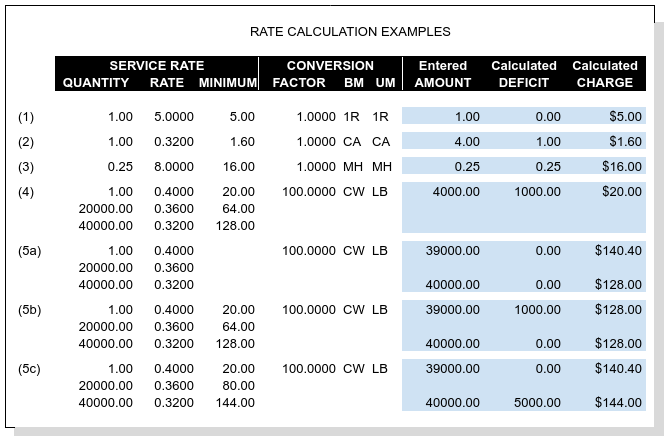
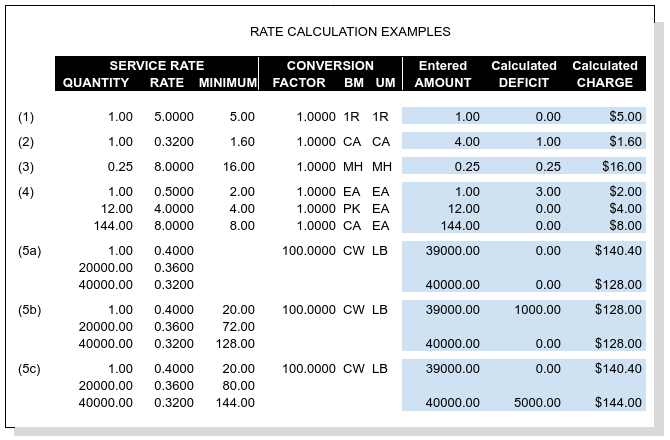
Deployed documentation

diff --git a/billing/searchindex.js b/billing/searchindex.js
@@ -1,1 +1,1 @@
-Search.setIndex({envversion:46,terms:{all:[4,5],concept:5,partial:4,consider:4,illustr:4,month:[4,3,6],four:[4,5],signific:4,per:4,edu:5,follow:[4,6,5],merchandis:5,footnot:5,decid:4,depend:4,aug:6,quarterli:6,decim:4,program:4,present:[4,5],under:4,everi:[4,6,3,5],"void":6,mechan:4,level:4,button:3,reconcil:6,list:[4,6],item:6,adjust:4,particularli:[4,5],compens:4,consequ:6,rate:5,further:4,index:0,what:4,appear:[4,5],abf:4,sun:6,section:5,calcul:5,uniform:5,current:[4,6],"new":6,method:[4,5],elimin:4,full:4,defici:4,iarw:5,gener:[4,6],here:[4,5],satisfi:4,address:5,becom:4,modifi:6,valu:[4,3,6],search:0,convers:4,broken:4,larger:4,amount:4,pick:4,action:6,chang:4,control:[6,5],apr:6,appli:[4,6,3,5],modul:[0,4],establish:5,unit:4,fee:4,from:[4,6],describ:[4,6,5],would:[4,6],two:[4,6],todai:[6,5],next:[4,3,6],recommend:4,scope:5,codifi:4,type:[4,6],more:4,desir:[4,3],ptional:4,relat:6,enhanc:5,particular:[4,5],compani:[4,5],ware:[4,6,5],tariff:[4,3],must:[4,5],account:5,hour:4,can:4,meet:4,dec:6,overrid:4,process:6,tab:5,occur:6,alwai:4,multipl:4,ledger:5,wareh:[4,5],how:[4,5],fourth:6,instead:4,negoti:4,product:4,mar:6,irration:4,usabl:4,befor:4,tier:5,end:[4,6],law:5,associ:[4,6,5],demonstr:4,accessori:5,subtl:4,practic:5,third:6,correspond:[4,5],caus:4,perform:6,allow:6,enter:[4,6,3,5],order:4,over:4,move:6,becaus:4,report:4,through:[4,5],vari:4,paramet:4,group:5,render:4,labor:4,window:4,pend:6,therefor:4,might:[4,6],uom:4,them:4,good:5,"return":4,greater:4,thei:4,handl:[4,5],financi:5,dai:[4,3,6],half:4,andatori:4,nov:6,term:[4,5],name:4,payer:4,revers:6,compris:5,each:[4,5],quarter:4,mai:[4,6,3,5],year:3,event:[4,6],special:4,shown:[4,6],space:6,goe:5,epeat:4,crucial:4,categori:5,formula:4,forth:4,qualifi:4,advanc:4,standard:[4,5],base:[4,3,5],lump:4,put:4,basi:5,could:4,retail:4,assign:4,frequent:4,first:[4,6],oper:5,softwar:5,rang:[6,5],directli:4,onc:[4,6],number:[6,5],thereof:4,restrict:4,date:[4,3,6],blank:4,expir:[3,6],open:6,differ:4,nomin:4,data:5,system:[4,3],necessarili:6,similarli:4,cornel:5,"final":4,schema:5,option:[4,6],specifi:[4,3],logist:[4,5],than:4,provid:[4,5],second:6,structur:5,were:4,posit:4,sai:4,ani:[4,6],packag:4,manner:4,have:[4,6],tabl:4,need:4,sat:6,equival:4,inform:5,also:[4,6],exampl:5,which:[4,6,5],singl:[4,5],unless:4,reloc:4,track:6,price:4,previou:[4,6],promulg:5,charg:5,later:6,request:6,quantiti:4,bracket:4,sunset:6,determin:4,prorat:4,show:4,text:5,radio:3,fifth:6,onli:4,transact:[4,5],activ:5,state:[4,5],should:[4,3],jan:6,busi:4,factor:4,discontinu:3,oct:6,express:4,contractu:4,cannot:4,increas:4,requir:[4,6],enabl:4,organ:4,whether:[4,5],contain:[4,6],where:4,conform:5,set:[4,6,5],sep:6,mandatori:4,result:4,close:4,calendar:4,statu:4,figur:4,progress:[8,7,3,2,1,9],across:4,accord:[4,6],kei:4,extens:4,come:6,tue:6,both:4,protect:4,last:[4,3,6],howev:4,equal:4,contract:5,roman:5,improv:5,point:4,schedul:[4,3,6],period:[4,6],yearli:6,ucc:5,recur:6,fri:6,three:[4,6,5],perpetu:6,revenu:4,trigger:4,alcul:4,monthli:6,frz:4,iwla:5,suppress:4,convert:4,zero:4,those:4,"case":4,commerci:5,defin:[4,6,5],"while":[4,6],abov:6,omcr:4,warehous:[4,5],inventori:6,receiv:4,belong:4,same:4,higher:4,week:3,http:5,effect:[4,6],hand:4,fairli:4,user:4,extern:5,typic:4,appropri:3,thu:6,well:4,know:4,without:4,thi:[4,3,6],left:4,explan:4,less:4,weekli:6,aspect:[4,5],wed:6,guantiti:4,biweekli:6,input:4,subsequ:4,lade:4,applic:4,mon:6,measur:4,specif:[4,6],necessari:4,either:4,restack:4,page:[0,6,5],www:5,often:4,captur:4,monthdai:4,back:5,intern:5,guarante:4,definit:6,legal:[4,5],leas:[4,6],leav:4,select:3,condit:5,content:0,plu:6,run:6,sixth:6,usag:5,discount:4,feb:6,ascend:4,manag:4,industri:5,produc:4,routin:4,effici:5,within:[4,5],automat:4,due:6,down:4,storag:[4,6,5],your:4,span:6,wai:4,custom:[4,5],avail:4,start:3,includ:4,fraction:4,deliveri:5,head:4,offer:[4,5],some:[4,6],jun:6,jul:6,arrear:4,link:[4,5],refriger:5,highest:4,hire:5,made:4,possibl:4,"default":[4,5],displai:5,record:[4,5],limit:5,similar:4,featur:4,creat:[4,6],certain:5,dure:4,repres:4,decreas:4,fill:4,semiannu:6,when:[4,3,6],detail:4,field:4,other:[4,3,5],futur:4,varieti:4,warehousemen:5,repeat:4,consid:4,descript:[4,5],time:[4,6,5],invoic:[4,5],daili:6},objtypes:{},objnames:{},filenames:["index","03_charges","04_invoices","08_recurring","02_rates","01_services","05_repeating","06_calculated","07_mandatory","09_invoicing"],titles:["3rd-Party Warehouse Services Billing","Charges Transactions","Customer Invoices","Calculating Recurring Charges","Billing Rates","Service Codes","Repeating Calendar Operations","Calculated Charges","Billing Mandatory Charges","Invoicing Charges"],objects:{},titleterms:{oper:6,mandatori:8,code:5,identifi:4,global:4,share:4,indic:0,rate:4,minimum:4,sec:4,tabl:0,calendar:[3,6],penalti:4,privat:4,group:4,recur:3,quot:4,parti:0,section:4,activ:4,calcul:[3,4,7],custom:2,note:4,deficit:4,basic:4,scope:4,introduct:5,repeat:6,regard:4,part:4,tier:4,bill:[0,4,8,5],charg:[8,7,4,3,1,9],addit:4,account:4,"3rd":0,column:5,entri:[4,5],servic:[0,5],properti:4,displai:4,rule:4,inform:[4,3],benefit:4,exampl:4,warehous:0,invoic:[9,2],transact:1,irrat:4}})
+Search.setIndex({envversion:46,terms:{all:[4,5],concept:5,partial:4,consider:4,illustr:4,month:[4,3,6],four:[4,5],signific:4,per:4,edu:5,follow:[4,6,5],merchandis:5,footnot:5,decid:4,depend:4,aug:6,quarterli:6,decim:4,program:4,present:[4,5],under:4,everi:[4,6,3,5],"void":6,mechan:4,level:4,did:4,button:3,reconcil:6,list:[4,6],item:6,adjust:4,particularli:[4,5],compens:4,consequ:6,zero:4,further:4,index:0,what:4,appear:[4,5],compar:4,sun:6,section:5,calcul:5,uniform:5,current:[4,6],"new":6,method:[4,5],elimin:4,full:4,defici:4,iarw:5,gener:[4,6],here:[4,5],satisfi:4,address:5,modifi:6,valu:[4,3,6],search:0,convers:4,broken:4,larger:4,amount:4,pick:4,action:6,chang:4,omcr:4,control:[6,5],apr:6,appli:5,transit:4,establish:5,unit:4,fee:4,from:[4,6],describ:[4,6,5],would:[4,6],two:[4,6],todai:[6,5],next:[4,3,6],recommend:4,scope:5,codifi:4,type:[4,6],more:4,desir:[4,3],ptional:4,relat:6,enhanc:5,particular:[4,5],compani:[4,5],ware:[4,6,5],tariff:[4,3],must:[4,5],account:5,hour:4,can:4,meet:4,dec:6,overrid:4,process:6,tab:5,occur:6,alwai:4,multipl:4,ledger:5,wareh:[4,5],how:[4,5],fourth:6,instead:4,negoti:4,product:4,mar:6,irration:4,usabl:4,befor:4,tier:5,end:6,law:5,associ:[4,6,5],demonstr:4,accessori:5,subtl:4,practic:5,third:[4,6],correspond:[4,5],caus:4,perform:6,allow:6,enter:[4,6,3,5],order:4,composit:4,over:4,move:[4,6],becaus:4,report:4,through:[4,5],vari:4,paramet:4,group:5,render:4,labor:4,window:4,pend:6,therefor:4,might:[4,6],uom:4,them:4,good:5,"return":4,greater:4,thei:4,handl:[4,5],financi:5,dai:[4,3,6],half:4,andatori:4,nov:6,now:4,term:[4,5],name:4,payer:4,revers:6,compris:5,each:[4,5],quarter:4,weight:4,mai:[4,6,3,5],year:3,reduct:4,special:4,shown:[4,6],space:6,goe:5,epeat:4,crucial:4,categori:5,formula:4,forth:4,qualifi:4,advanc:4,standard:[4,5],base:[4,3,5],lump:4,put:4,basi:5,could:4,retail:4,assign:4,frequent:4,first:[4,6],oper:5,softwar:5,rang:[6,5],directli:4,onc:[4,6],number:[6,5],thereof:4,restrict:4,date:[4,3,6],blank:4,expir:[3,6],open:6,differ:4,nomin:4,data:5,system:[4,3],necessarili:6,similarli:4,cornel:5,schema:5,option:[4,6],specifi:[4,3],logist:[4,5],than:4,provid:[4,5],second:[4,6],structur:5,were:4,posit:4,rate:5,sai:4,ani:[4,6],packag:4,manner:4,have:[4,6],tabl:4,need:4,dozen:4,equival:4,inform:5,also:[4,6],without:4,which:[4,6,5],singl:[4,5],unless:4,reloc:4,track:6,price:4,previou:[4,6],most:4,promulg:5,charg:5,abf:4,later:6,request:6,sunset:6,determin:4,weigh:4,prorat:4,show:4,text:5,radio:3,fifth:6,onli:4,transact:[4,5],activ:5,state:[4,5],should:[4,3],jan:6,busi:4,factor:4,discontinu:3,oct:6,express:4,contractu:4,cheaper:4,cannot:4,increas:4,requir:[4,6],enabl:4,organ:4,whether:[4,5],contain:[4,6],where:4,conform:5,set:[4,6,5],sep:6,mandatori:4,result:4,calendar:4,statu:4,extend:4,figur:4,progress:[8,7,3,2,1,9],across:4,accord:[4,6],kei:4,extens:4,come:6,tue:6,both:4,protect:4,last:[4,3,6],howev:4,equal:4,contract:5,roman:5,improv:5,point:4,schedul:[4,3,6],period:[4,6],yearli:6,ucc:5,recur:6,fri:6,three:[4,6,5],perpetu:6,revenu:4,trigger:4,alcul:4,interest:4,monthli:6,frz:4,iwla:5,suppress:4,convert:4,those:4,"case":4,commerci:5,lesser:4,defin:[4,6,5],"while":[4,6],abov:6,pack:4,warehous:[4,5],inventori:6,receiv:4,belong:4,econom:4,same:4,sat:6,higher:4,week:3,http:5,effect:[4,6],hand:4,fairli:4,user:4,extern:5,typic:4,lower:4,appropri:3,thu:6,well:4,know:4,exampl:5,thi:[4,3,6],left:4,explan:4,just:4,less:4,weekli:6,aspect:[4,5],previous:4,wed:6,guantiti:4,biweekli:6,input:4,subsequ:4,modul:[0,4],lade:4,applic:4,mon:6,measur:4,specif:[4,6],benefit:4,necessari:4,either:4,restack:4,page:[0,6,5],www:5,often:4,captur:4,monthdai:4,back:5,intern:5,guarante:4,avoid:4,definit:6,legal:[4,5],leas:[4,6],leav:4,select:3,condit:5,content:0,plu:6,run:6,sixth:6,usag:5,discount:4,step:4,feb:6,ascend:4,manag:4,industri:5,produc:4,routin:4,effici:5,within:[4,5],automat:4,due:6,down:4,strip:4,storag:[4,6,5],your:4,span:6,wai:4,custom:[4,5],avail:4,start:3,includ:4,fraction:4,deliveri:5,head:4,offer:[4,5],some:[4,6],jun:6,jul:6,arrear:4,link:[4,5],refriger:5,line:4,highest:4,hire:5,made:4,possibl:4,"default":[4,5],displai:5,record:[4,5],below:4,limit:5,similar:4,penal:4,featur:4,creat:[4,6],certain:5,dure:4,repres:4,decreas:4,fill:4,semiannu:6,when:[4,3,6],detail:4,event:6,field:4,other:[4,3,5],futur:4,varieti:4,warehousemen:5,repeat:4,consid:4,descript:[4,5],eoq:4,time:[4,6,5],invoic:[4,5],daili:6},objtypes:{},objnames:{},filenames:["index","03_charges","04_invoices","08_recurring","02_rates","01_services","05_repeating","06_calculated","07_mandatory","09_invoicing"],titles:["3rd-Party Warehouse Services Billing","Charges Transactions","Customer Invoices","Calculating Recurring Charges","Billing Rates","Service Codes","Repeating Calendar Operations","Calculated Charges","Billing Mandatory Charges","Invoicing Charges"],objects:{},titleterms:{oper:6,mandatori:8,code:5,identifi:4,appli:4,global:4,share:4,indic:0,rate:4,minimum:4,sec:4,tabl:0,calendar:[3,6],straight:4,penalti:4,privat:4,group:4,recur:3,quot:4,parti:0,transact:1,activ:4,custom:2,note:4,deficit:4,basic:4,scope:4,introduct:5,repeat:6,benefici:4,regard:4,"break":4,part:4,tier:4,bill:[0,4,8,5],charg:[8,7,4,3,1,9],addit:4,account:4,"3rd":0,column:5,entri:[4,5],servic:[0,5],properti:4,displai:4,rule:4,quantiti:4,inform:[4,3],calcul:[3,4,7],exampl:4,warehous:0,invoic:[9,2],section:4,irrat:4}})

diff --git a/billing/02_rates.html b/billing/02_rates.html
@@ -65,15 +65,15 @@
 <li><a class="reference internal" href="#charge-calculation-display">Charge Calculation &amp; Display</a><ul>
 <li><a class="reference internal" href="#minimums-and-deficits">Minimums and Deficits</a></li>
 <li><a class="reference internal" href="#basic-charge-calculations">Basic Charge Calculations</a><ul>
-<li><a class="reference internal" href="#example-1">Example 1:</a></li>
-<li><a class="reference internal" href="#example-2">Example 2:</a></li>
-<li><a class="reference internal" href="#example-3">Example 3:</a></li>
-<li><a class="reference internal" href="#example-4">Example 4:</a></li>
+<li><a class="reference internal" href="#example-1-straight-rate">Example 1: Straight Rate</a></li>
+<li><a class="reference internal" href="#example-2-minimum-applies">Example 2: Minimum Applies</a></li>
+<li><a class="reference internal" href="#example-3-quantity-not-one">Example 3: Quantity not One</a></li>
+<li><a class="reference internal" href="#example-4-quantity-breaks">Example 4: Quantity Breaks</a></li>
 </ul>
 </li>
 <li><a class="reference internal" href="#example-5-rate-tiers">Example 5: Rate Tiers</a><ul>
 <li><a class="reference internal" href="#part-a-irrational-rates">Part (a): Irrational Rates</a></li>
-<li><a class="reference internal" href="#part-b-benefit-deficit">Part (b): Benefit Deficit</a></li>
+<li><a class="reference internal" href="#part-b-beneficial-deficit">Part (b): Beneficial Deficit</a></li>
 <li><a class="reference internal" href="#part-c-penalty-deficit">Part (c): Penalty Deficit</a></li>
 </ul>
 </li>
@@ -325,72 +325,99 @@ customer&#8217;s benefit.</p>
 <div class="line"><strong>Deficit</strong> is the larger of:</div>
 <div class="line"><br /></div>
 <div class="line-block">
-<div class="line">(a)  ( Minimum * Factor ) / Rate  - Amount</div>
+<div class="line">(a)  Minimum * ( Factor / Rate ) - Amount</div>
 <div class="line">(b)  0</div>
 <div class="line"><br /></div>
 </div>
 <div class="line">and <strong>Charge</strong> is:</div>
 <div class="line"><br /></div>
 <div class="line-block">
-<div class="line">( Amount + Deficit ) * Rate / Factor</div>
+<div class="line">( Amount + Deficit ) * ( Rate / Factor )</div>
 </div>
 </div>
 <p>Subtle differences in the way a rate is expressed may have significant effects
 on revenue. The following figure shows a variety of charge calculations based
 on similar rate entries to illustrate this point.</p>
 <img alt="_images/rate-examples.png" src="_images/rate-examples.png" />
-<div class="section" id="example-1">
-<h4>Example 1:<a class="headerlink" href="#example-1" title="Permalink to this headline">¶</a></h4>
+<div class="section" id="example-1-straight-rate">
+<h4>Example 1: Straight Rate<a class="headerlink" href="#example-1-straight-rate" title="Permalink to this headline">¶</a></h4>
 <p>Where a quantity is 1, the rate will provide a default minimum. In the example,
 a charge of $5.00 is applied to each qualifying activity (UOM = 1R represents
 a transaction). The Minimum is the Rate, and therefore Deficit is always zero.</p>
 </div>
-<div class="section" id="example-2">
-<h4>Example 2:<a class="headerlink" href="#example-2" title="Permalink to this headline">¶</a></h4>
+<div class="section" id="example-2-minimum-applies">
+<h4>Example 2: Minimum Applies<a class="headerlink" href="#example-2-minimum-applies" title="Permalink to this headline">¶</a></h4>
 <p>A <strong>Minimum</strong> greater than the <strong>Rate</strong> may apply, and deficient <strong>Amounts</strong>
 will trigger a <strong>Deficit</strong> to result in a charge equal to the minimum. In this
 example a $.32/case pick fee with a minimum equivalent to 5 cases is applied,
 while only 4 cases were picked.</p>
 </div>
-<div class="section" id="example-3">
-<h4>Example 3:<a class="headerlink" href="#example-3" title="Permalink to this headline">¶</a></h4>
+<div class="section" id="example-3-quantity-not-one">
+<h4>Example 3: Quantity not One<a class="headerlink" href="#example-3-quantity-not-one" title="Permalink to this headline">¶</a></h4>
 <p>A decimal <strong>Quantity</strong> may be used for rates expressed in fractional amounts.
 Here MH labor is charged as $8.00 per quarter hour or fraction thereof, with a
-minimum of $16.00, or a half hour of labor. This changes the charge formula
-<strong>Deficit</strong> calculation to:</p>
-<div class="line-block">
-<div class="line"><strong>Deficit</strong> is:</div>
-<div class="line"><br /></div>
+minimum of $16.00, or a half hour of labor. This changes the <strong>Deficit</strong>
+formula to:</p>
 <div class="line-block">
 <div class="line">( Minimum * Factor * Quantity ) / Rate - Amount</div>
-</div>
 </div>
 <div class="admonition tip">
 <p class="first admonition-title">Tip</p>
 <p class="last">Decimal quantities apply only with single rates, not tiered rates.</p>
 </div>
 </div>
-<div class="section" id="example-4">
-<h4>Example 4:<a class="headerlink" href="#example-4" title="Permalink to this headline">¶</a></h4>
+<div class="section" id="example-4-quantity-breaks">
+<h4>Example 4: Quantity Breaks<a class="headerlink" href="#example-4-quantity-breaks" title="Permalink to this headline">¶</a></h4>
+<p>Rates based on economic order quantity (EOQ) provide break pricing for specific
+quantities (cheaper by the dozen) or composite units of measure (PK, CA). This
+example shows Each, Pack, and Case picking charges where the order unit is EA
+(each) but the billing units are by the EOQ.</p>
 </div>
 </div>
 <div class="section" id="example-5-rate-tiers">
 <span id="rate-tiers"></span><h3>Example 5: Rate Tiers<a class="headerlink" href="#example-5-rate-tiers" title="Permalink to this headline">¶</a></h3>
+<p>Rate tiers are most interesting pricing option in WARES. A tiered rate may
+provide pricing with step changes (no deficits), with transition deficits
+benefitting the customer, or with transitions deficits penalizing the customer.</p>
+<p>In this example, a container stripping fee is charged according to container
+weight. A charge is calculated for a container weighing 39,000 lb. and one
+weighing 40,000 lb.</p>
 <div class="section" id="part-a-irrational-rates">
 <h4>Part (a): Irrational Rates<a class="headerlink" href="#part-a-irrational-rates" title="Permalink to this headline">¶</a></h4>
+<p>Deficit quantities may be calculated when minimums are used. in part (a), there
+are no minimums and the charge at 40,000 lb. is $12.40 less than the charge at
+39,000 lb. This is considered a pricing irrationality.</p>
 </div>
-<div class="section" id="part-b-benefit-deficit">
-<h4>Part (b): Benefit Deficit<a class="headerlink" href="#part-b-benefit-deficit" title="Permalink to this headline">¶</a></h4>
+<div class="section" id="part-b-beneficial-deficit">
+<h4>Part (b): Beneficial Deficit<a class="headerlink" href="#part-b-beneficial-deficit" title="Permalink to this headline">¶</a></h4>
+<p>Irrationalities can be eliminated by applying minimums. In part (b), the
+minimums on the second and third line equal the product of Quantity and Rate.
+WARES will compare the charge with the minimum at the next break, and if the
+minimum is less, a deficit will be added to move to the next rate level.</p>
+<p>for the amount 39,000, the charge is the greater of:</p>
+<div class="line-block">
+<div class="line">(a) the minimum, $72.00, or</div>
+<div class="line">(b) 39,000 * .36 / 1000.00</div>
+</div>
+<p>Then charge is calculated as the lesser of:</p>
+<div class="line-block">
+<div class="line">(a) the next minimum, $128.00, or</div>
+<div class="line">(b) the charge calculated previously, $140.40</div>
+</div>
+<p>customer receives the benefit of a lower charge by being billed for a greater
+quantity.</p>
 </div>
 <div class="section" id="part-c-penalty-deficit">
 <h4>Part (c): Penalty Deficit<a class="headerlink" href="#part-c-penalty-deficit" title="Permalink to this headline">¶</a></h4>
-<p>The previous table ends with a tiered rate, and an <strong>Amount</strong> close to the
-final bracket quantity. In this event, the charge has to be calculated at the
-nominal bracket:</p>
-<div class="math">
-\[Charge = ( 39000 \times .36 ) \over 100.00\]\[Charge = 140.40\]</div>
-<p>The <strong>Minimum</strong> at the next tier, <strong>128.00</strong>, is less than <strong>140.40</strong>, and so
-a deficit of <strong>1000.00</strong> would be applied. then the charge calculation becomes:</p>
+<p>To avoid a price reduction for amounts below a break level, minimums should
+equal the break Quantity times the Rate of the previous level. In this example,
+the minimum of line 3 is the quantity 40,000 times the previous rate .3600, and
+the minimum of line 2 is the quantity 20,000 times the previous rate .4000.</p>
+<p>Now the charge at 39,000 lb. extends to $140.40 just as it did in part (a), and
+this is less than the minimum at the next level of $144.00. This results in a
+deficit quantity of 5,000 at quantity 40,000 so that the charge meets the line
+minimum, $144.00. There is no rate irrationality, but the customer receives
+less benefit from the rate break.</p>
 </div>
 </div>
 <div class="section" id="charge-display">
